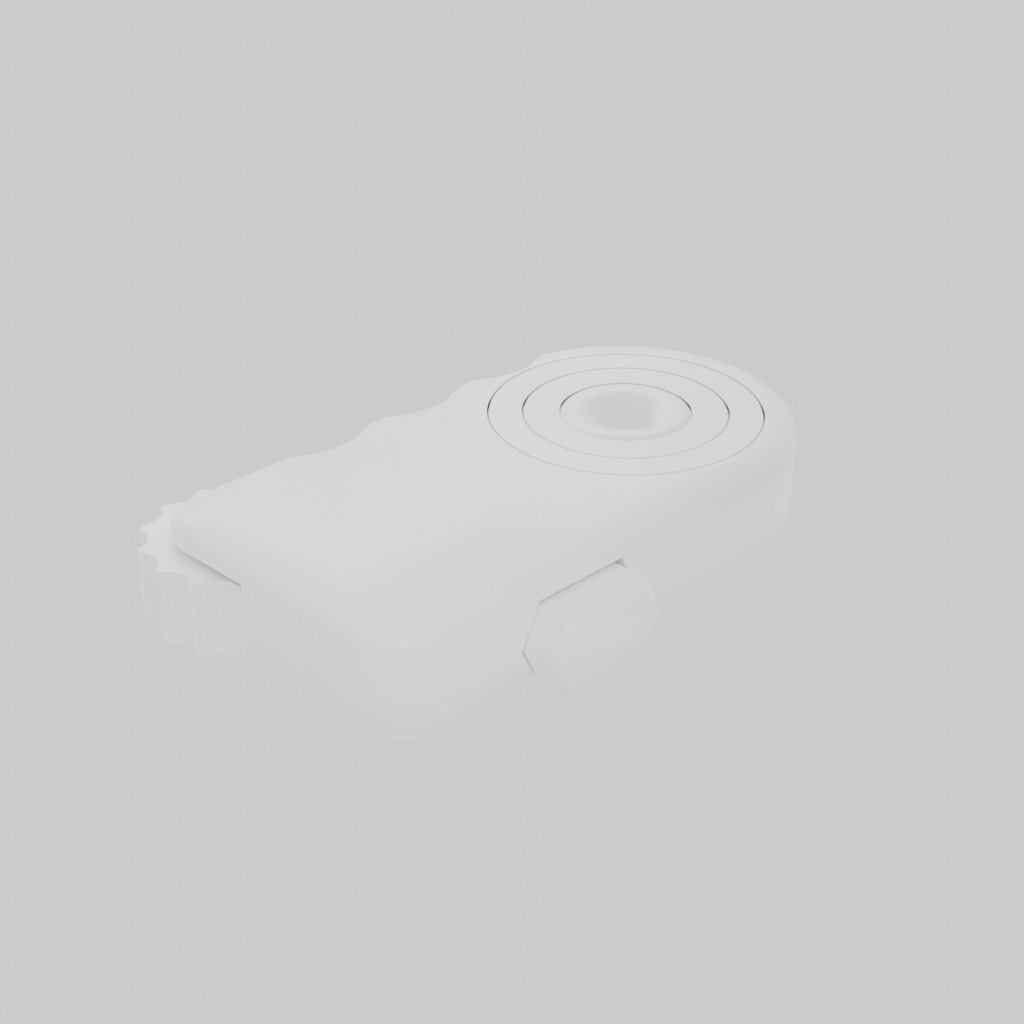
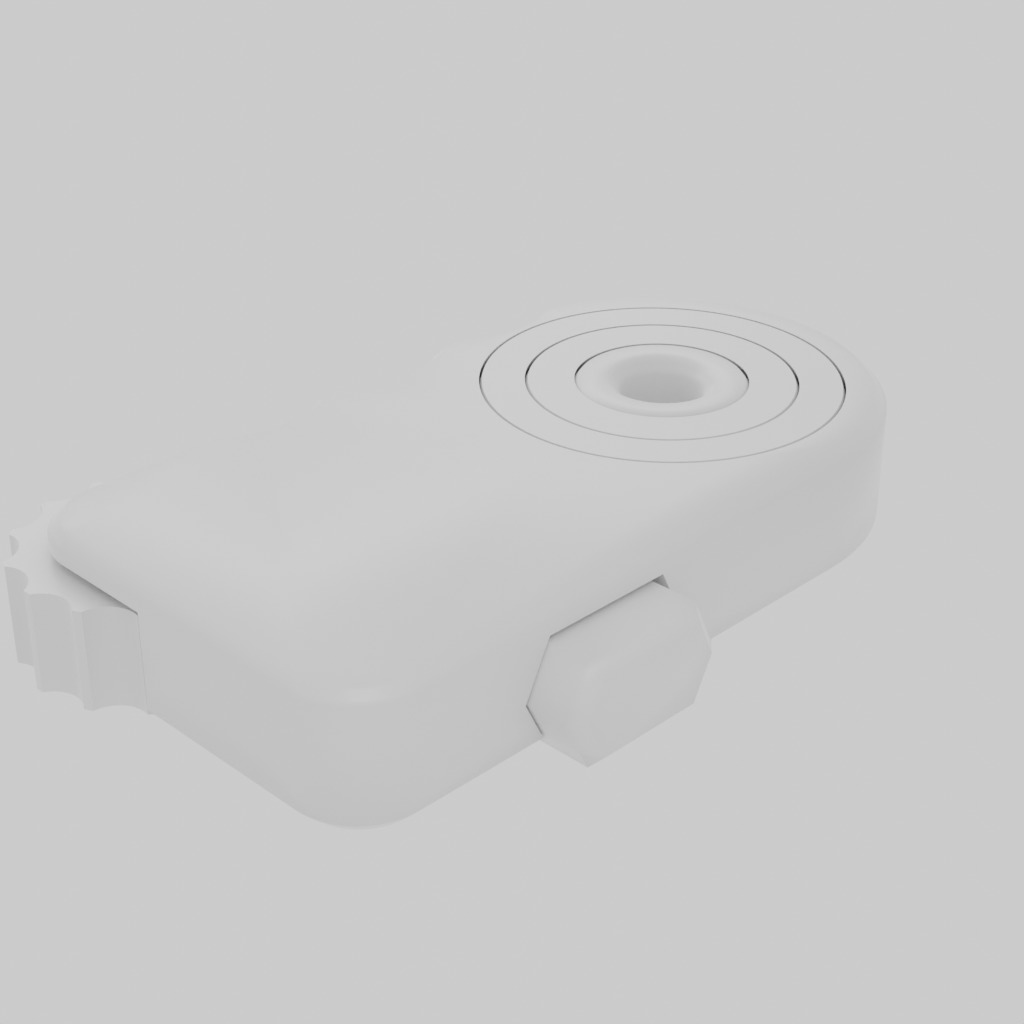
feat: Dummy 13 photo/3D toggle, per-part color pickers, improved Blender renders
- Add assembledPhotoUrl and multiColorParts fields to ProductPage type
- Add partColors to PrintCustomization for per-part color orders
- Dummy 13: add photo/3D model toggle tab (defaults to 3D, shows assembled photo)
- Dummy 13: per-part color pickers for Armor and Frame runners separately
- Blender renders: change default color to #A8A8A8 (medium gray, better contrast)
- Blender renders: move camera closer (1.35,-1.35,1.05) to fill frame better
- Re-render infinity-cube.jpg and click-clack-swoosh.jpg with new settings

diff --git a/src/components/product/ProductPageClient.tsx b/src/components/product/ProductPageClient.tsx
@@ -45,8 +45,18 @@ export function ProductPageClient({ product }: { product: ProductPage }) {
 
   const [variantIdx, setVariantIdx] = useState(product.defaultVariantIndex);
   const [quantity, setQuantity] = useState(1);
+  const [galleryView, setGalleryView] = useState<'3d' | 'photo'>('3d');
+
+  // Initialize part colors with the first available color for each part
+  const initialPartColors = useMemo(() => {
+    if (!product.multiColorParts || !product.availableFilamentColorIds) return undefined;
+    const firstColorId = product.availableFilamentColorIds[0] ?? 'white';
+    return Object.fromEntries(product.multiColorParts.map(p => [p.id, firstColorId]));
+  }, [product.multiColorParts, product.availableFilamentColorIds]);
+
   const [printCustomization, setPrintCustomization] = useState<PrintCustomization>({
     filamentColorId: product.variants[product.defaultVariantIndex].filamentColorId,
+    partColors: initialPartColors,
   });
   const { addItem } = useCart();
   const { show } = useToast();
@@ -141,7 +151,63 @@ export function ProductPageClient({ product }: { product: ProductPage }) {
         <div className="reveal-item">
           <div className={styles.gallery}>
             {is3DPrinted && product.stlFile ? (
-              <STLViewer stlPath={product.stlFile} color={selectedColorHex ?? '#F8F8F8'} />
+              <>
+                {product.assembledPhotoUrl && (
+                  <div style={{ display: 'flex', gap: '4px', marginBottom: '12px' }}>
+                    <button
+                      onClick={() => setGalleryView('3d')}
+                      style={{
+                        flex: 1,
+                        padding: '6px 12px',
+                        fontSize: '13px',
+                        fontWeight: 600,
+                        border: '1px solid',
+                        borderRadius: '8px 0 0 8px',
+                        cursor: 'pointer',
+                        transition: 'background 0.15s, color 0.15s',
+                        background: galleryView === '3d' ? '#0d9488' : '#fff',
+                        color: galleryView === '3d' ? '#fff' : '#555',
+                        borderColor: galleryView === '3d' ? '#0d9488' : '#d1d5db',
+                      }}
+                      aria-pressed={galleryView === '3d'}
+                    >
+                      3D Model
+                    </button>
+                    <button
+                      onClick={() => setGalleryView('photo')}
+                      style={{
+                        flex: 1,
+                        padding: '6px 12px',
+                        fontSize: '13px',
+                        fontWeight: 600,
+                        border: '1px solid',
+                        borderRadius: '0 8px 8px 0',
+                        cursor: 'pointer',
+                        transition: 'background 0.15s, color 0.15s',
+                        background: galleryView === 'photo' ? '#0d9488' : '#fff',
+                        color: galleryView === 'photo' ? '#fff' : '#555',
+                        borderColor: galleryView === 'photo' ? '#0d9488' : '#d1d5db',
+                        marginLeft: '-1px',
+                      }}
+                      aria-pressed={galleryView === 'photo'}
+                    >
+                      Assembled Photo
+                    </button>
+                  </div>
+                )}
+                {galleryView === '3d' ? (
+                  <STLViewer stlPath={product.stlFile} color={selectedColorHex ?? '#A8A8A8'} />
+                ) : (
+                  <img
+                    className={styles.galleryImage}
+                    src={product.assembledPhotoUrl}
+                    alt={`${product.name} — assembled`}
+                    loading="eager"
+                    style={{ viewTransitionName: `product-${product.slug}` }}
+                    onError={(e) => { (e.currentTarget as HTMLImageElement).src = '/images/products/placeholder.svg'; }}
+                  />
+                )}
+              </>
             ) : (
               <img
                 className={styles.galleryImage}
@@ -202,12 +268,35 @@ export function ProductPageClient({ product }: { product: ProductPage }) {
 
           {is3DPrinted && filamentColors.length > 0 ? (
             <div style={{ marginBottom: '16px' }}>
-              <p style={{ margin: '0 0 8px', fontSize: '13px', fontWeight: 600, textTransform: 'uppercase', letterSpacing: '0.05em', color: '#666' }}>Color</p>
-              <FilamentColorPicker
-                colors={filamentColors}
-                selectedId={printCustomization.filamentColorId ?? filamentColors[0].id}
-                onChange={handleFilamentColorChange}
-              />
+              <p style={{ margin: '0 0 10px', fontSize: '13px', fontWeight: 600, textTransform: 'uppercase', letterSpacing: '0.05em', color: '#666' }}>Color</p>
+              {product.multiColorParts && printCustomization.partColors ? (
+                <div style={{ display: 'flex', flexDirection: 'column', gap: '12px' }}>
+                  {product.multiColorParts.map(part => (
+                    <div key={part.id} style={{ display: 'flex', alignItems: 'center', gap: '12px' }}>
+                      <span style={{ fontSize: '13px', fontWeight: 500, color: '#444', width: '56px', flexShrink: 0 }}>{part.label}</span>
+                      <FilamentColorPicker
+                        colors={filamentColors}
+                        selectedId={printCustomization.partColors![part.id] ?? filamentColors[0].id}
+                        onChange={(colorId) =>
+                          setPrintCustomization(prev => ({
+                            ...prev,
+                            partColors: { ...prev.partColors, [part.id]: colorId },
+                          }))
+                        }
+                      />
+                    </div>
+                  ))}
+                  <p style={{ margin: 0, fontSize: '12px', color: '#888', fontStyle: 'italic' }}>
+                    Each part is printed separately in your chosen color and assembled.
+                  </p>
+                </div>
+              ) : (
+                <FilamentColorPicker
+                  colors={filamentColors}
+                  selectedId={printCustomization.filamentColorId ?? filamentColors[0].id}
+                  onChange={handleFilamentColorChange}
+                />
+              )}
             </div>
           ) : (
             <VariantSelector

diff --git a/src/types/index.ts b/src/types/index.ts
@@ -14,6 +14,7 @@ export interface PrintCustomization {
   filamentColorId?: string;
   engravingText?: string;
   keychainHole?: boolean;
+  partColors?: Record<string, string>; // { armor: 'white', frame: 'black' } for multi-part products
 }
 
 export type ProductCategory =
@@ -70,7 +71,9 @@ export interface ProductPage {
   // 3D printing
   fulfillmentType?: FulfillmentType;       // defaults to 'dropship' if absent
   stlFile?: string;                        // path like '/models/yafic_v2.stl'
+  assembledPhotoUrl?: string;             // real product photo shown alongside 3D viewer (toggleable)
   availableFilamentColorIds?: string[];    // references FilamentColor.id
+  multiColorParts?: Array<{ id: string; label: string }>; // e.g. [{ id: 'armor', label: 'Armor' }, { id: 'frame', label: 'Frame' }]
   customizationOptions?: {
     engravingText?: boolean;
     keychainHole?: boolean;

diff --git a/src/data/products.ts b/src/data/products.ts
@@ -15,7 +15,12 @@ export const productPages: ProductPage[] = [
     category: 'Collectible',
     fulfillmentType: '3d-printed',
     stlFile: '/models/dummy13-runners.stl',
+    assembledPhotoUrl: '/images/products/dummy-13.jpg',
     availableFilamentColorIds: ['white', 'black'],
+    multiColorParts: [
+      { id: 'armor', label: 'Armor' },
+      { id: 'frame', label: 'Frame' },
+    ],
     customizationOptions: {
       engravingText: false,
       keychainHole: false,

diff --git a/scripts/render-product.py b/scripts/render-product.py
@@ -63,8 +63,8 @@ def render_stl(stl_path, output_path, color_hex='#F0F0F0'):
     bpy.context.collection.objects.link(cam_obj)
     bpy.context.scene.camera = cam_obj
 
-    # Isometric-ish angle: slightly above, to the front-right
-    cam_obj.location = (1.8, -1.8, 1.4)
+    # Isometric-ish angle: slightly above, to the front-right (closer = larger subject)
+    cam_obj.location = (1.35, -1.35, 1.05)
     cam_obj.rotation_euler = (math.radians(58), 0, math.radians(45))
 
     # Track-to constraint so camera always looks at object
@@ -130,6 +130,6 @@ if len(args) < 2:
 
 stl_path   = args[0]
 output_path = args[1]
-color_hex  = args[2] if len(args) > 2 else '#F0F0F0'
+color_hex  = args[2] if len(args) > 2 else '#A8A8A8'
 
 render_stl(stl_path, output_path, color_hex)
